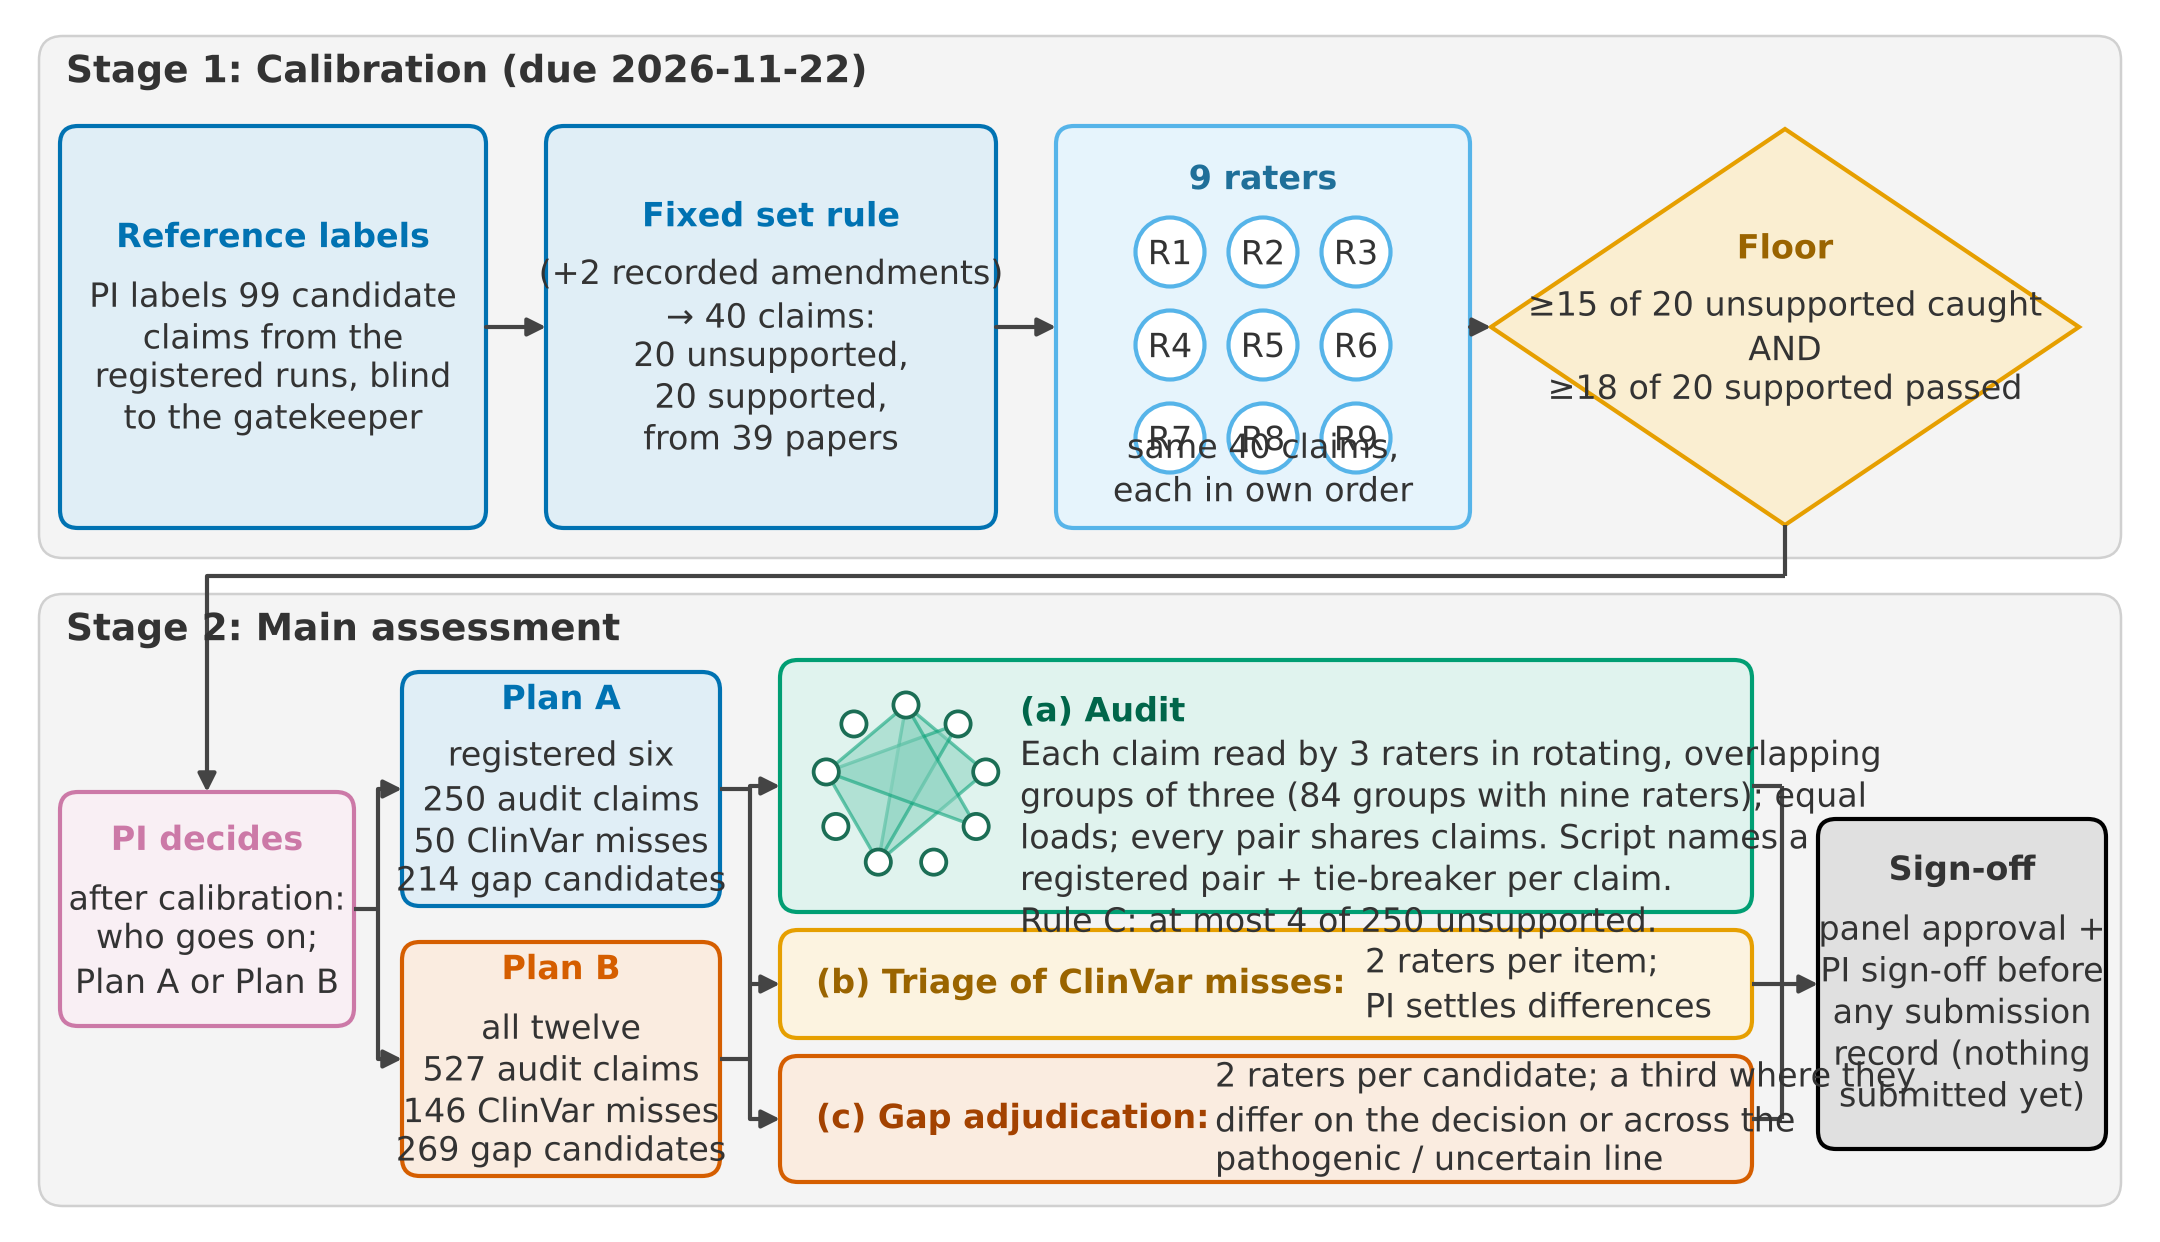
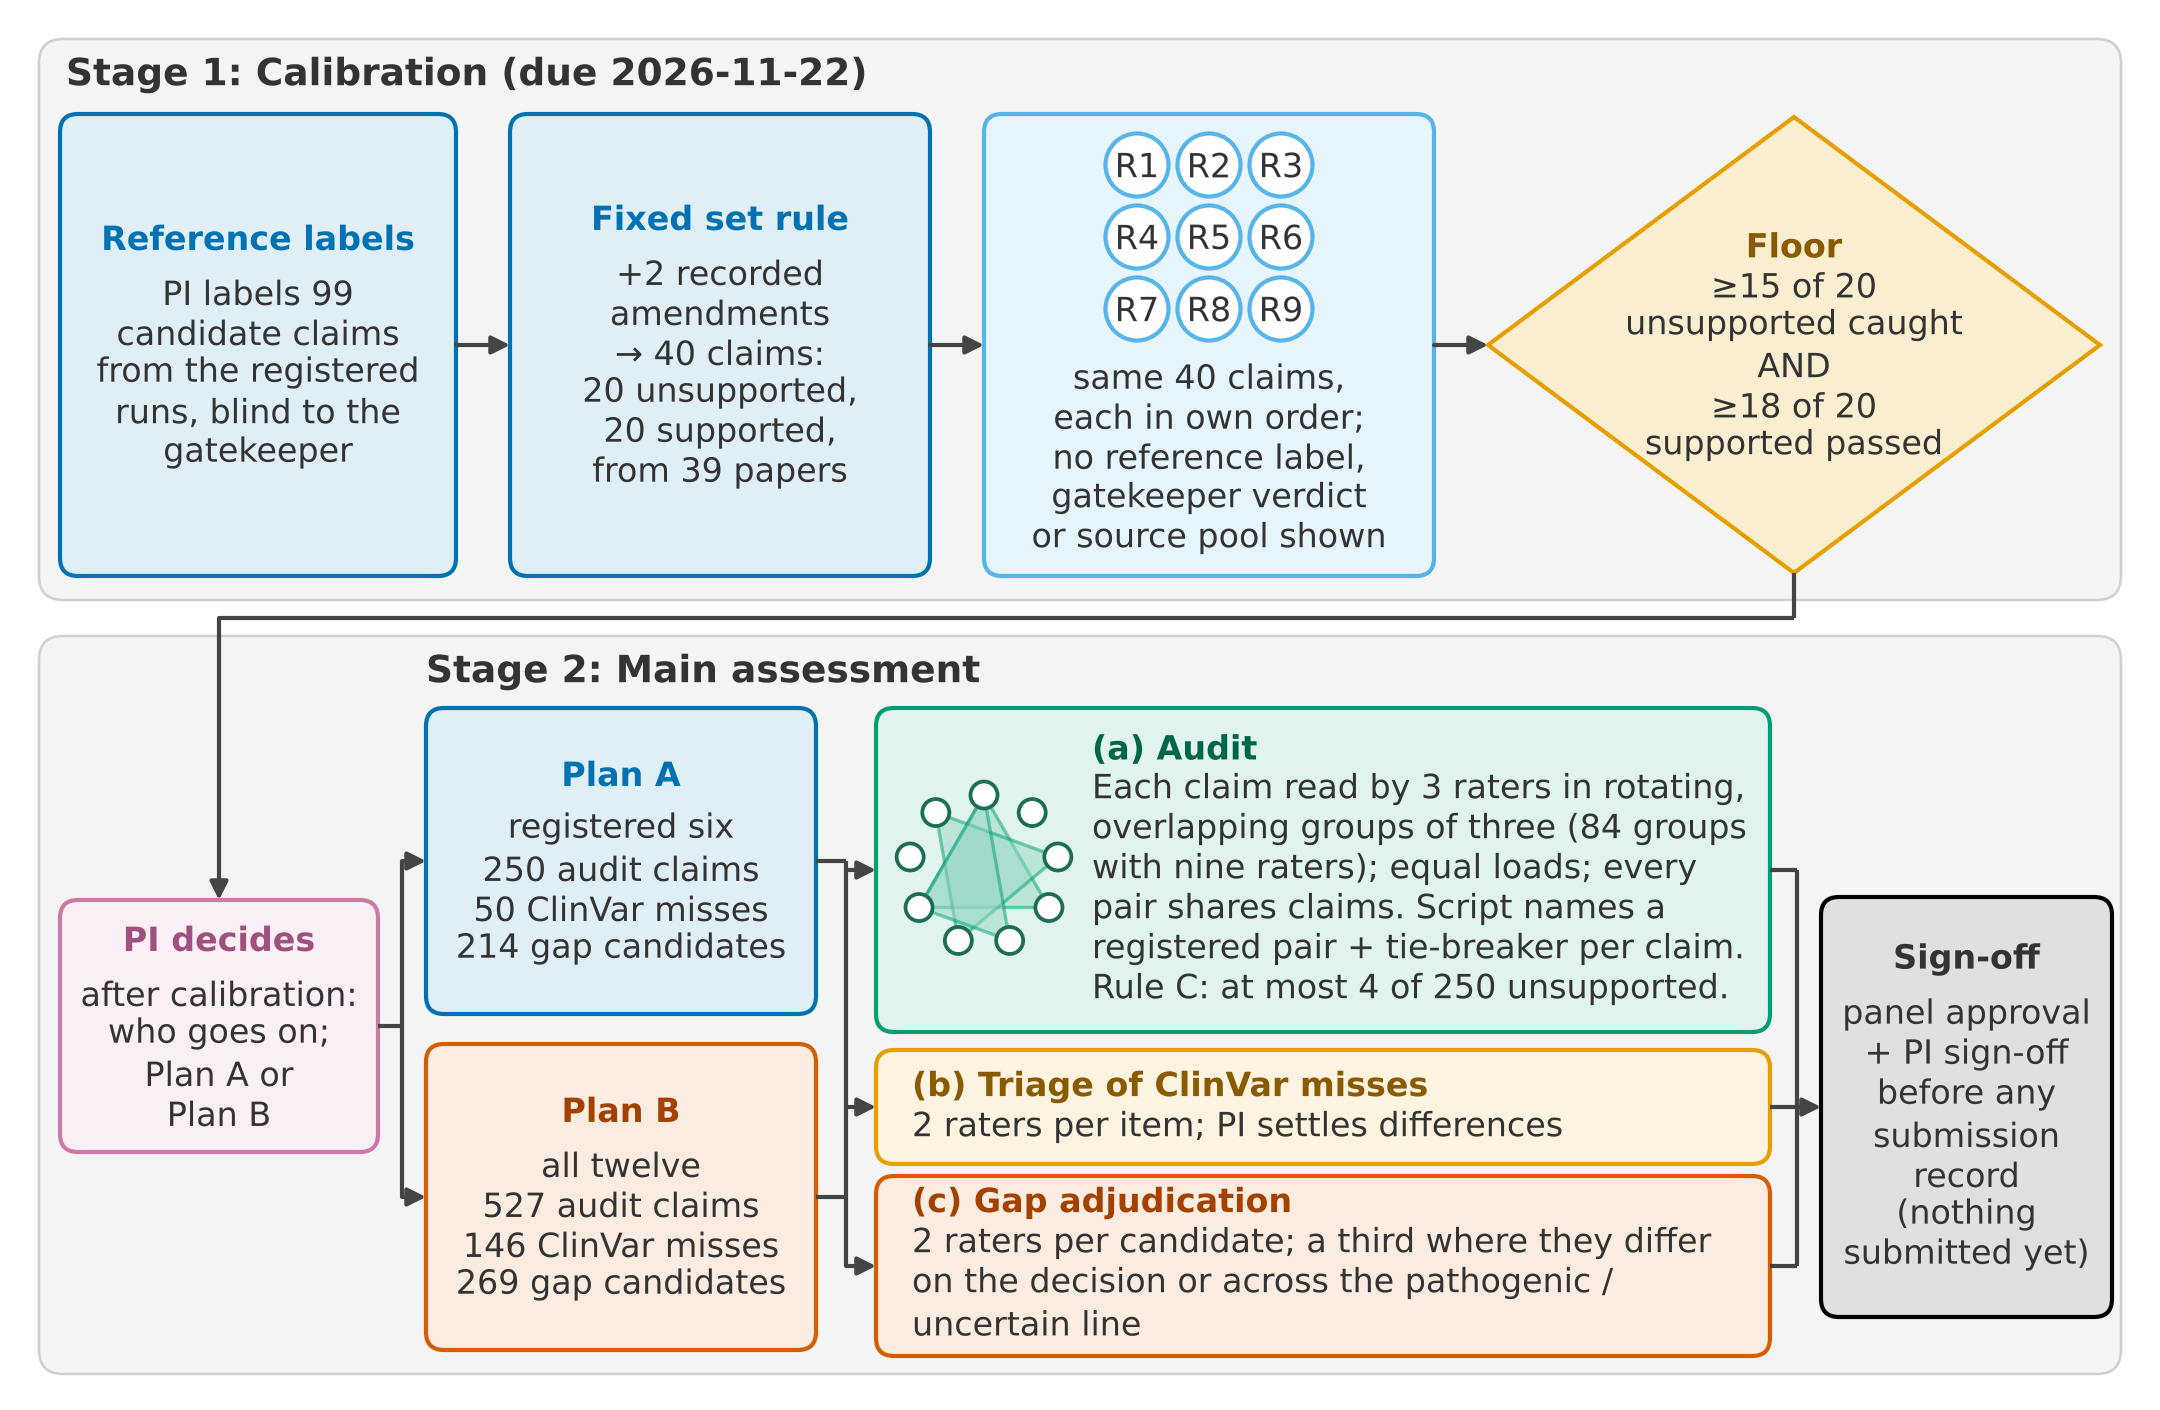
Paper v4 run_po1: literature candidates, batch 2 (35)
Claude-Session: https://claude.ai/code/session_015Q6ZxHWkQ4QYcUm5kPJ1mX

Changed region(s): [[0.0, 0.0306, 0.9926, 0.9791], [0.7755, 0.1224, 0.8065, 0.153]]

diff --git a/reports/paper_v4/run_po1/plots/fig_human_assessment/plot.py b/reports/paper_v4/run_po1/plots/fig_human_assessment/plot.py
@@ -1,7 +1,7 @@
 """fig_human_assessment: design diagram of the D-55 human assessment (experimental_log.md §4).
 
 Design only: no results, no rater identities. Every number is copied from the log
-(§4, §4.1, §4.2, §4.3, §7). Coordinates are in inches on a 7 x 4.4 in canvas.
+(§4, §4.1, §4.2, §4.3, §7). Coordinates are in inches on a 7 x 4.5 in canvas.
 """
 import math
 import os
@@ -12,7 +12,7 @@ matplotlib.use("Agg")
 import matplotlib.pyplot as plt
 from matplotlib.patches import FancyBboxPatch, Polygon, Circle, FancyArrowPatch
 
-W, H = 7.0, 4.4
+W, H = 7.0, 4.5
 FS = 8          # body text, pt
 FS_HEAD = 9     # band titles
 LS = 1.2        # line spacing
@@ -84,8 +84,8 @@ def line(xs, ys, color=ARROW, lw=1.0, z=3):
 
 
 # ---------------------------------------------------------------- stage bands
-S1 = (2.50, 4.37)
-S2 = (0.02, 2.38)
+S1 = (2.60, 4.47)
+S2 = (0.02, 2.48)
 for (y0, y1) in (S1, S2):
     ax.add_patch(FancyBboxPatch((0.03, y0), W - 0.06, y1 - y0,
                                 boxstyle="round,pad=0,rounding_size=0.08",
@@ -95,7 +95,7 @@ txt(0.12, S1[1] - 0.12, "Stage 1: Calibration (due 2026-11-22)", size=FS_HEAD,
 txt(1.32, S2[1] - 0.12, "Stage 2: Main assessment", size=FS_HEAD, weight="bold", ha="left")
 
 # ---------------------------------------------------------------- stage 1
-y0s, y1s = 2.58, 4.12
+y0s, y1s = 2.68, 4.22
 ym1 = (y0s + y1s) / 2
 
 titled(0.10, y0s, 1.42, y1s, "Reference labels",
@@ -110,14 +110,14 @@ titled(1.60, y0s, 3.00, y1s, "Fixed set rule",
 rx0, rx1 = 3.18, 4.68
 box(rx0, y0s, rx1, y1s, C["sky"], fill_f=0.85)
 rxm = (rx0 + rx1) / 2
-r, sp = 0.105, 0.255
-gy_top = y1s - 0.20
+r, sp = 0.105, 0.24
+gy_top = y1s - 0.17
 for i in range(9):
     cx = rxm + (i % 3 - 1) * sp
     cy = gy_top - (i // 3) * sp
     ax.add_patch(Circle((cx, cy), r, fc="white", ec=C["sky"], lw=1.0, zorder=4))
     txt(cx, cy, f"R{i + 1}", size=FS, z=6)
-txt(rxm, y0s + 0.08, "same 40 claims,\neach in own order;\nno reference label,\n"
+txt(rxm, y0s + 0.06, "same 40 claims,\neach in own order;\nno reference label,\n"
     "gatekeeper verdict\nor source pool shown", va="bottom",
     within=(rx0 + 0.05, y0s + 0.04, rx1 - 0.05, gy_top - 2 * sp - r - 0.02))
 
@@ -133,7 +133,7 @@ for xa, xb in [(1.42, 1.60), (3.00, 3.18), (4.68, dx - hw)]:
     arrow((xa, ym1), (xb, ym1))
 
 # ---------------------------------------------------------------- connector to stage 2
-dec = (0.10, 0.72, 1.16, 1.56)
+dec = (0.10, 0.76, 1.16, 1.60)
 xm_dec = (dec[0] + dec[2]) / 2
 yc = (S1[0] + S2[1]) / 2
 line([dx, dx], [dy - hh, yc])
@@ -143,8 +143,8 @@ arrow((xm_dec, yc), (xm_dec, dec[3]))
 # ---------------------------------------------------------------- stage 2
 titled(*dec, "PI decides", "after calibration:\nwho goes on;\nPlan A or\nPlan B", C["purple"])
 
-pa = (1.32, 1.16, 2.62, 2.14)
-pb = (1.32, 0.10, 2.62, 1.08)
+pa = (1.32, 1.22, 2.62, 2.24)
+pb = (1.32, 0.10, 2.62, 1.12)
 titled(*pa, "Plan A",
        "registered six\n250 audit claims\n50 ClinVar misses\n214 gap candidates", C["blue"])
 titled(*pb, "Plan B",
@@ -161,7 +161,7 @@ arrow((xj, ym_b), (pb[0], ym_b))
 
 # three tracks
 tx0, tx1 = 2.82, 5.80
-lanes = {"audit": (1.06, 2.14), "triage": (0.60, 1.00), "adj": (0.08, 0.54)}
+lanes = {"audit": (1.16, 2.24), "triage": (0.72, 1.10), "adj": (0.08, 0.68)}
 mids = {k: (v[0] + v[1]) / 2 for k, v in lanes.items()}
 xc = 2.72
 line([pa[2], xc], [ym_a, ym_a])
@@ -184,9 +184,9 @@ for (px, py) in pts:
     ax.add_patch(Circle((px, py), 0.045, fc="white", ec="#1b6e55", lw=0.9, zorder=4))
 lane_in = (tx0 + 0.70, a0 + 0.05, tx1 - 0.05, a1 - 0.05)
 tx_a = tx0 + 0.72
-txt(tx_a, a1 - 0.09, "(a) Audit", weight="bold", ha="left", va="top",
+txt(tx_a, a1 - 0.07, "(a) Audit", weight="bold", ha="left", va="top",
     color=TITLE_COL[C["green"]], within=lane_in)
-txt(tx_a, a1 - 0.09 - LINE,
+txt(tx_a, a1 - 0.07 - LINE,
     "Each claim read by 3 raters in rotating,\n"
     "overlapping groups of three (84 groups\n"
     "with nine raters); equal loads; every\n"
@@ -206,16 +206,17 @@ txt(tx0 + 0.12, (t0 + t1) / 2 - LINE / 2, "2 raters per item; PI settles differe
 # (c) gap adjudication
 g0, g1 = lanes["adj"]
 box(tx0, g0, tx1, g1, C["verm"])
-txt(tx0 + 0.12, (g0 + g1) / 2 + LINE / 2, "(c) Gap adjudication", weight="bold", ha="left",
+g_top = (g0 + g1) / 2 + 2 * LINE + 0.01
+txt(tx0 + 0.12, g_top - LINE / 2, "(c) Gap adjudication", weight="bold", ha="left",
     color=TITLE_COL[C["verm"]], within=(tx0, g0, tx1 - 0.05, g1))
-txt(tx0 + 0.12, (g0 + g1) / 2 - LINE / 2,
+txt(tx0 + 0.12, g_top - LINE,
     "2 raters per candidate; a third where they differ\non the decision or across the "
-    "pathogenic / uncertain line", ha="left", va="center",
+    "pathogenic /\nuncertain line", ha="left", va="top",
     within=(tx0, g0 + 0.03, tx1 - 0.05, g1))
 
 # collector to sign-off
 xs = 5.89
-fx0, fx1 = 5.98, 6.92
+fx0, fx1 = 5.97, 6.94
 for m in mids.values():
     line([tx1, xs], [m, m])
 line([xs, xs], [min(mids.values()), max(mids.values())])

diff --git a/reports/paper_v4/run_po1/plots/fig_pipeline_overview/plot.py b/reports/paper_v4/run_po1/plots/fig_pipeline_overview/plot.py
@@ -108,12 +108,12 @@ for (a0, a1), (b0, b1) in zip(xs[:-1], xs[1:]):
     arrow([(a1, TMID), (b0, TMID)])
 
 # ---------------------------------------------------------------- bottom lane
-BY0, BY1 = 0.24, 1.02
+BY0, BY1 = 0.21, 1.02
 ref = (0.06, 1.12)
-o2 = (1.34, 2.36, 0.68, BY1)
-o3 = (1.34, 2.36, BY0, 0.58)
-dos = (2.58, 3.66, BY0, 0.76)
-ppl = (3.88, 5.44, BY0, BY1)
+o2 = (1.28, 2.40, 0.68, BY1)
+o3 = (1.28, 2.40, BY0, 0.58)
+dos = (2.58, 3.62, BY0, 0.79)
+ppl = (3.80, 5.46, BY0, BY1)
 box(ref[0], ref[1], BY0, BY1, "Held-out reference",
     "ClinVar snapshot\n(dated release);\nOMIM entry pages\nfrozen 2026-10-28", ORANGE, "white")
 box(*o2, "O2 concordance", "with ClinVar, OMIM", ORANGE, "white")
@@ -136,7 +136,11 @@ RUN_HI, RUN_LO = 1.31, 1.13
 x_out = (xs[5][0] + xs[5][1]) / 2
 x_o2o3 = (o2[0] + o2[1]) / 2
 # Output -> O2 (and through O2's column to O3): records into the harness
-arrow([(x_out, TY0), (x_out, RUN_HI), (x_o2o3, RUN_HI), (x_o2o3, o2[3])])
+grp = FancyBboxPatch((o2[0] - 0.04, o3[2] - 0.035), o2[1] - o2[0] + 0.08,
+                     o2[3] - o3[2] + 0.07, boxstyle="round,pad=0,rounding_size=0.05",
+                     fc="none", ec=ORANGE, lw=0.8, ls=(0, (3, 2)), zorder=2)
+ax.add_patch(grp)
+arrow([(x_out, TY0), (x_out, RUN_HI), (x_o2o3, RUN_HI), (x_o2o3, o2[3] + 0.035)])
 ax.text((x_o2o3 + 2.95) / 2, RUN_HI + 0.015, "phenopackets", fontsize=FS, va="bottom",
         ha="center", zorder=7)
 # Gatekeeper -> People: the O1 claim pool; drawn over the other route with a white gap
@@ -145,8 +149,6 @@ x_pp = ppl[0] + 0.30
 arrow([(x_gk, TY0), (x_gk, RUN_LO), (x_pp, RUN_LO), (x_pp, ppl[3])], halo=True, z=8)
 ax.text((x_gk + x_pp) / 2 + 0.05, RUN_LO + 0.015, "supported claims", fontsize=FS,
         va="bottom", ha="center", zorder=9)
-# O2 column continues to O3 (records feed both)
-arrow([(o2[0] - 0.10, RUN_HI - 0.0), (o2[0] - 0.10, y_o3), (o3[0], y_o3)]) if False else None
 
 # ---------------------------------------------------------------- overflow check
 fig.canvas.draw()
